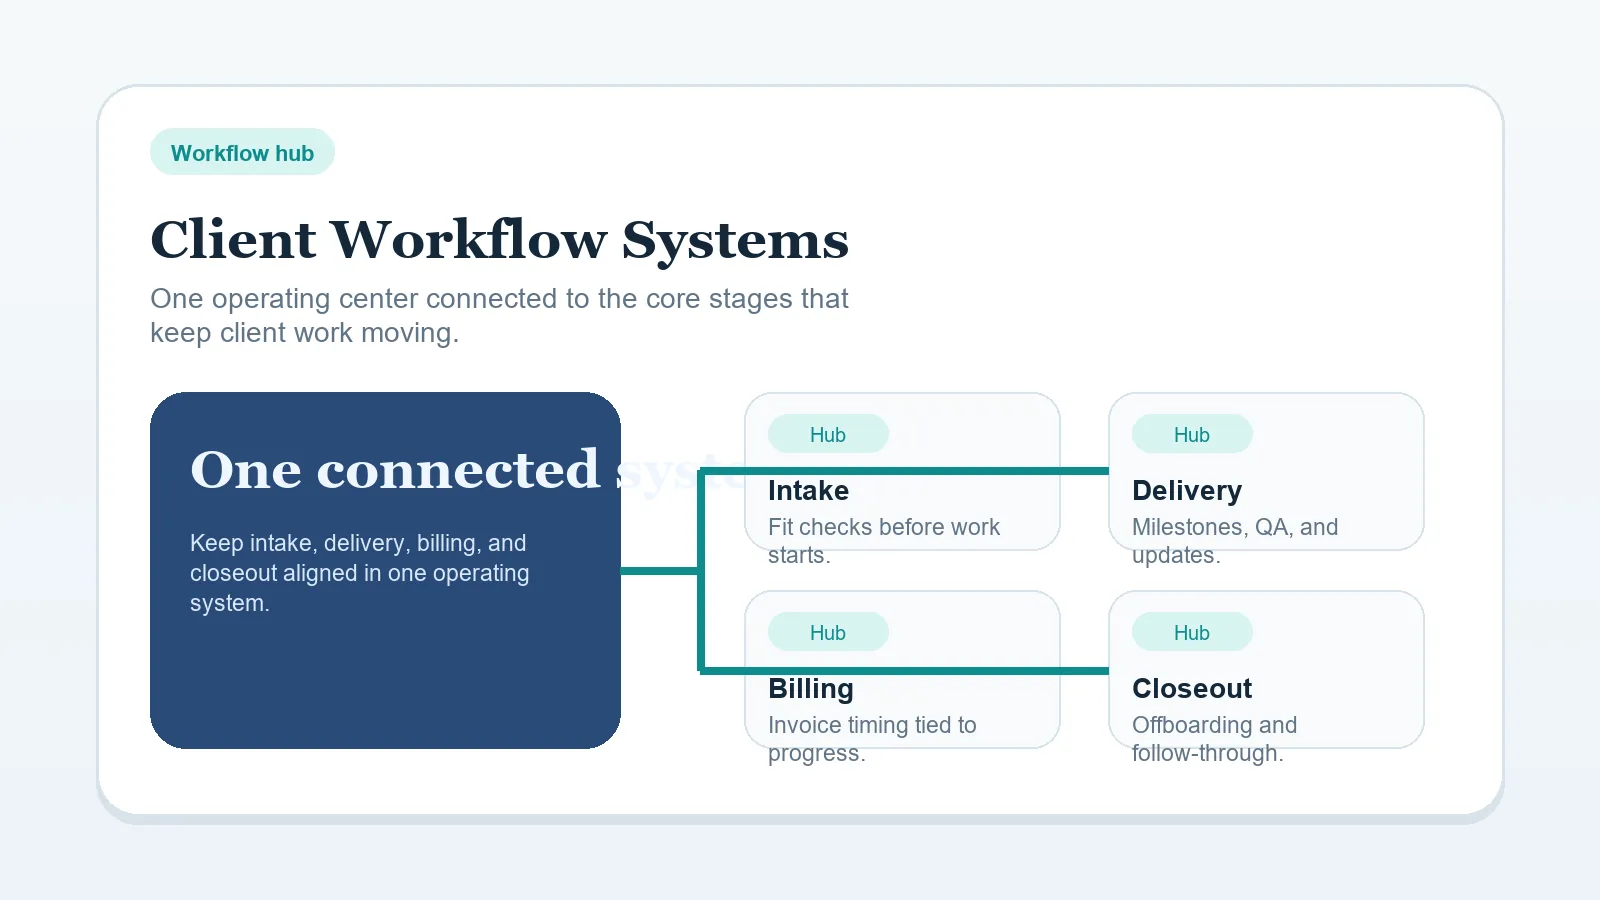
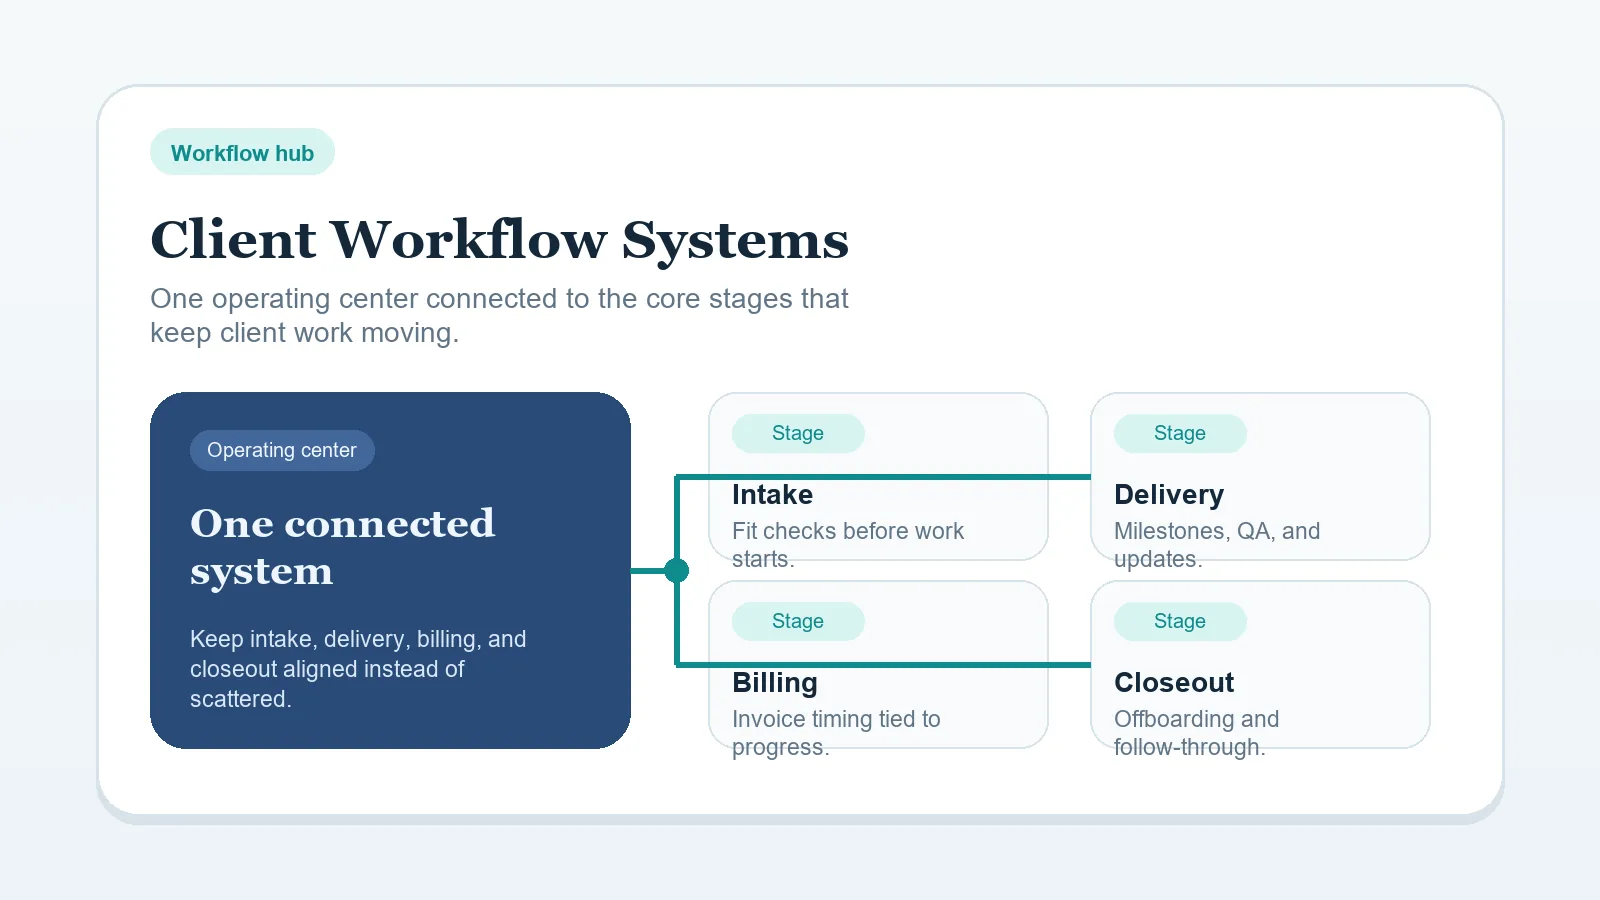
Improve four priority homepage feature images

Changed region(s): [[0.0938, 0.4356, 0.875, 0.8711]]

diff --git a/tools/feature-images/feature_images/templates/hub_overview.py b/tools/feature-images/feature_images/templates/hub_overview.py
@@ -8,30 +8,31 @@ def render_hub_overview(spec, context):
     helpers["shadowed_box"](draw, (96, 84, 1504, 816), palette["frame"], palette["stroke"], palette["shadow"], radius=42)
     helpers["pill"](draw, (150, 128, 334, 174), palette["accent_soft"], spec["eyebrow"], fonts["pill"], palette["accent"])
     draw.text((150, 208), spec["title"], font=fonts["title"], fill=palette["ink"])
-    helpers["draw_text_block"](draw, spec["subtitle"], fonts["subtitle"], palette["muted"], (150, 282, 720, 72), 8, report, "hub subtitle", max_lines=2)
+    helpers["draw_text_block"](draw, spec["subtitle"], fonts["subtitle"], palette["muted"], (150, 282, 760, 72), 8, report, "hub subtitle", max_lines=2)
 
-    anchor_box = (150, 392, 620, 748)
+    anchor_box = (150, 392, 630, 748)
     helpers["rounded_box"](draw, anchor_box, fill=palette["secondary"], outline=palette["secondary"], width=2, radius=36)
-    draw.text((190, 438), spec["anchor"]["title"], font=fonts["title"], fill="#eef6ff")
-    helpers["draw_text_block"](draw, spec["anchor"]["body"], fonts["card_body"], "#d8e6f7", (190, 530, 360, 108), 8, report, "hub anchor body", max_lines=4)
+    helpers["pill"](draw, (190, 430, 374, 470), "#43679b", "Operating center", fonts["small"], "#eef6ff")
+    helpers["draw_text_block"](draw, spec["anchor"]["title"], fonts["panel_title"], "#eef6ff", (190, 500, 330, 110), 10, report, "hub anchor title", max_lines=2)
+    helpers["draw_text_block"](draw, spec["anchor"]["body"], fonts["card_body"], "#d8e6f7", (190, 626, 360, 82), 8, report, "hub anchor body", max_lines=3)
 
     modules = spec["modules"]
     module_boxes = [
-        (744, 392, 1060, 550),
-        (1108, 392, 1424, 550),
-        (744, 590, 1060, 748),
-        (1108, 590, 1424, 748),
+        (708, 392, 1048, 560),
+        (1090, 392, 1430, 560),
+        (708, 580, 1048, 748),
+        (1090, 580, 1430, 748),
     ]
     for box, module in zip(module_boxes, modules):
         helpers["rounded_box"](draw, box, fill="#f8fbfd", outline=palette["stroke"], width=2, radius=28)
-        helpers["pill"](draw, (box[0] + 24, box[1] + 22, box[0] + 144, box[1] + 60), palette["accent_soft"], module["kicker"], fonts["small"], palette["accent"])
-        draw.text((box[0] + 24, box[1] + 82), module["title"], font=fonts["card_title"], fill=palette["ink"])
-        helpers["draw_text_block"](draw, module["detail"], fonts["card_body"], palette["muted"], (box[0] + 24, box[1] + 122, 248, 64), 6, report, f"hub module {module['title']}", max_lines=2)
+        helpers["pill"](draw, (box[0] + 24, box[1] + 22, box[0] + 156, box[1] + 60), palette["accent_soft"], module["kicker"], fonts["small"], palette["accent"])
+        draw.text((box[0] + 24, box[1] + 86), module["title"], font=fonts["card_title"], fill=palette["ink"])
+        helpers["draw_text_block"](draw, module["detail"], fonts["card_body"], palette["muted"], (box[0] + 24, box[1] + 126, 280, 64), 6, report, f"hub module {module['title']}", max_lines=2)
 
-    connector_x1 = 620
-    connector_x2 = 700
-    draw.line((connector_x1, 570, connector_x2, 570), fill=palette["accent"], width=8)
-    draw.line((connector_x2, 470, connector_x2, 670), fill=palette["accent"], width=8)
-    for y in (470, 670):
-        draw.line((connector_x2, y, 744, y), fill=palette["accent"], width=8)
-        draw.line((connector_x2, y, 1108, y), fill=palette["accent"], width=8)
+    connector_x1 = 630
+    connector_x2 = 676
+    draw.line((connector_x1, 570, connector_x2, 570), fill=palette["accent"], width=6)
+    draw.line((connector_x2, 476, connector_x2, 664), fill=palette["accent"], width=6)
+    draw.ellipse((connector_x2 - 12, 558, connector_x2 + 12, 582), fill=palette["accent"])
+    for y, x in ((476, 708), (476, 1090), (664, 708), (664, 1090)):
+        draw.line((connector_x2, y, x, y), fill=palette["accent"], width=6)

diff --git a/tools/feature-images/feature_images/templates/workflow_map.py b/tools/feature-images/feature_images/templates/workflow_map.py
@@ -13,46 +13,52 @@ def render_workflow_map(spec, context):
         spec["subtitle"],
         fonts["subtitle"],
         palette["muted"],
-        (150, 282, 700, 72),
+        (150, 282, 760, 72),
         8,
         report,
         "workflow subtitle",
         max_lines=2,
     )
 
-    panel = (150, 394, 1450, 590)
+    panel = (150, 384, 1450, 620)
     helpers["rounded_box"](draw, panel, fill="#f8fbfd", outline=palette["stroke"], width=3, radius=34)
     items = spec["items"]
-    card_width = 244
-    card_height = 168
-    start_x = 186
-    top_y = 452
-    gap = 70
+    card_width = 262
+    card_height = 176
+    gap = 34
+    start_x = 171
+    top_y = 430
+    connector_y = top_y + (card_height // 2)
+    last_card_x = start_x + ((len(items) - 1) * (card_width + gap))
+    draw.line(
+        (start_x + (card_width // 2), connector_y, last_card_x + (card_width // 2), connector_y),
+        fill=palette["accent_soft"],
+        width=14,
+    )
     for index, item in enumerate(items):
         x = start_x + index * (card_width + gap)
         box = (x, top_y, x + card_width, top_y + card_height)
         fill = [palette["accent_soft"], palette["secondary_soft"], palette["warm_soft"], palette["good_soft"]][index % 4]
         helpers["rounded_box"](draw, box, fill=fill, outline=palette["stroke"], width=2, radius=28)
-        helpers["pill"](draw, (x + 24, top_y + 24, x + 122, top_y + 62), palette["frame"], item["kicker"], fonts["small"], palette["muted"])
-        draw.text((x + 24, top_y + 84), item["label"], font=fonts["card_title"], fill=palette["ink"])
+        helpers["pill"](draw, (x + 24, top_y + 24, x + 138, top_y + 64), palette["frame"], item["kicker"], fonts["small"], palette["muted"])
+        draw.text((x + 24, top_y + 82), item["label"], font=fonts["card_title"], fill=palette["ink"])
         helpers["draw_text_block"](
             draw,
             item["detail"],
             fonts["card_body"],
             palette["muted"],
-            (x + 24, top_y + 124, card_width - 48, 64),
+            (x + 24, top_y + 122, card_width - 48, 72),
             6,
             report,
             f"workflow card {item['label']}",
             max_lines=2,
         )
         if index < len(items) - 1:
-            connector_y = top_y + (card_height // 2)
             draw.line((x + card_width, connector_y, x + card_width + gap, connector_y), fill=palette["accent"], width=8)
-            draw.ellipse((x + card_width + gap - 12, connector_y - 12, x + card_width + gap + 12, connector_y + 12), fill=palette["accent"])
+            draw.ellipse((x + card_width + gap - 11, connector_y - 11, x + card_width + gap + 11, connector_y + 11), fill=palette["accent"])
 
-    note_box = (150, 640, 760, 760)
-    signal_box = (790, 640, 1450, 760)
+    note_box = (150, 654, 760, 760)
+    signal_box = (790, 654, 1450, 760)
     helpers["rounded_box"](draw, note_box, fill="#f3f8fb", outline=palette["stroke"], width=2, radius=28)
     helpers["rounded_box"](draw, signal_box, fill="#f7fbf8", outline=palette["stroke"], width=2, radius=28)
     draw.text((182, 674), spec["supporting_note"]["title"], font=fonts["card_title"], fill=palette["ink"])

diff --git a/tools/feature-images/feature_images/templates/stack_blueprint.py b/tools/feature-images/feature_images/templates/stack_blueprint.py
@@ -10,26 +10,26 @@ def render_stack_blueprint(spec, context):
     draw.text((150, 208), spec["title"], font=fonts["title"], fill=palette["ink"])
     helpers["draw_text_block"](draw, spec["subtitle"], fonts["subtitle"], palette["muted"], (150, 282, 760, 72), 8, report, "blueprint subtitle", max_lines=2)
 
-    main_box = (150, 386, 844, 748)
-    side_box = (892, 386, 1450, 748)
+    main_box = (150, 386, 834, 768)
+    side_box = (882, 386, 1450, 768)
     helpers["rounded_box"](draw, main_box, fill="#f7fbff", outline=palette["stroke"], width=2, radius=34)
     helpers["rounded_box"](draw, side_box, fill="#fdfcf8", outline=palette["stroke"], width=2, radius=34)
 
     stack_boxes = [
-        (204, 620, 790, 704, palette["accent"]),
-        (238, 528, 756, 606, palette["secondary"]),
-        (278, 436, 716, 512, palette["warm"]),
+        (198, 630, 786, 724, palette["accent"]),
+        (232, 524, 752, 616, palette["secondary"]),
+        (272, 418, 712, 510, palette["warm"]),
     ]
     for idx, (x1, y1, x2, y2, fill) in enumerate(stack_boxes):
         helpers["rounded_box"](draw, (x1, y1, x2, y2), fill=fill, outline=fill, width=2, radius=26)
         layer = spec["stack_layers"][idx]
-        draw.text((x1 + 28, y1 + 20), layer["title"], font=fonts["card_title"], fill="#f7fbfd")
-        helpers["draw_text_block"](draw, layer["detail"], fonts["small"], "#e6eef7", (x1 + 28, y1 + 54, (x2 - x1) - 56, 48), 4, report, f"stack layer {layer['title']}", max_lines=2)
+        draw.text((x1 + 28, y1 + 18), layer["title"], font=fonts["card_title"], fill="#f7fbfd")
+        helpers["draw_text_block"](draw, layer["detail"], fonts["small"], "#e6eef7", (x1 + 28, y1 + 52, (x2 - x1) - 56, 48), 4, report, f"stack layer {layer['title']}", max_lines=2)
 
-    draw.text((932, 432), spec["side_panel"]["title"], font=fonts["card_title"], fill=palette["ink"])
+    draw.text((922, 432), spec["side_panel"]["title"], font=fonts["panel_title"], fill=palette["ink"])
     for index, item in enumerate(spec["side_panel"]["items"]):
-        y = 500 + (index * 86)
+        y = 502 + (index * 84)
         fill = [palette["accent_soft"], palette["secondary_soft"], palette["warm_soft"]][index % 3]
-        helpers["rounded_box"](draw, (932, y, 1408, y + 66), fill=fill, outline=palette["stroke"], width=2, radius=24)
-        draw.text((958, y + 18), item["label"], font=fonts["pill"], fill=palette["ink"])
-        draw.text((1230, y + 18), item["note"], font=fonts["small"], fill=palette["muted"])
+        helpers["rounded_box"](draw, (922, y, 1410, y + 74), fill=fill, outline=palette["stroke"], width=2, radius=24)
+        draw.text((950, y + 14), item["label"], font=fonts["pill"], fill=palette["ink"])
+        helpers["draw_text_block"](draw, item["note"], fonts["small"], palette["muted"], (950, y + 42, 420, 24), 4, report, f"stack trigger {item['label']}", max_lines=1)

diff --git a/tools/feature-images/feature_images/templates/comparison_split.py b/tools/feature-images/feature_images/templates/comparison_split.py
@@ -10,8 +10,8 @@ def render_comparison_split(spec, context):
     draw.text((150, 208), spec["title"], font=fonts["title"], fill=palette["ink"])
     helpers["draw_text_block"](draw, spec["subtitle"], fonts["subtitle"], palette["muted"], (150, 282, 760, 72), 8, report, "comparison subtitle", max_lines=2)
 
-    left_box = (150, 392, 732, 748)
-    right_box = (868, 392, 1450, 748)
+    left_box = (150, 392, 722, 736)
+    right_box = (878, 392, 1450, 736)
     helpers["rounded_box"](draw, left_box, fill="#fbf6ee", outline=palette["stroke"], width=2, radius=34)
     helpers["rounded_box"](draw, right_box, fill="#f4f8fd", outline=palette["stroke"], width=2, radius=34)
 
@@ -20,14 +20,14 @@ def render_comparison_split(spec, context):
         (right_box, spec["right"], palette["secondary"], palette["secondary_soft"], palette["secondary"]),
     ):
         helpers["pill"](draw, (box[0] + 30, box[1] + 26, box[0] + 210, box[1] + 66), pill_fill, side["kicker"], fonts["small"], pill_text)
-        draw.text((box[0] + 30, box[1] + 96), side["title"], font=fonts["card_title"], fill=palette["ink"])
+        draw.text((box[0] + 30, box[1] + 94), side["title"], font=fonts["panel_title"], fill=palette["ink"])
         for index, item in enumerate(side["items"]):
-            y = box[1] + 156 + (index * 80)
-            helpers["rounded_box"](draw, (box[0] + 30, y, box[2] - 30, y + 58), fill="#ffffff", outline=palette["stroke"], width=2, radius=22)
-            draw.text((box[0] + 54, y + 15), item["label"], font=fonts["pill"], fill=palette["ink"])
-            draw.text((box[2] - 210, y + 16), item["note"], font=fonts["small"], fill=palette["muted"])
+            y = box[1] + 154 + (index * 72)
+            helpers["rounded_box"](draw, (box[0] + 30, y, box[2] - 30, y + 54), fill="#ffffff", outline=palette["stroke"], width=2, radius=22)
+            draw.text((box[0] + 54, y + 16), item["label"], font=fonts["pill"], fill=palette["ink"])
+            helpers["pill"](draw, (box[2] - 182, y + 9, box[2] - 32, y + 45), pill_fill, item["note"], fonts["small"], pill_text)
 
-    decision_box = (454, 674, 1146, 758)
+    decision_box = (344, 754, 1256, 800)
     helpers["rounded_box"](draw, decision_box, fill=palette["frame"], outline=palette["stroke"], width=2, radius=28)
-    draw.text((486, 700), spec["decision"]["title"], font=fonts["pill"], fill=palette["ink"])
-    helpers["draw_text_block"](draw, spec["decision"]["body"], fonts["small"], palette["muted"], (700, 692, 404, 44), 4, report, "comparison decision", max_lines=2)
+    draw.text((382, 768), spec["decision"]["title"], font=fonts["pill"], fill=palette["ink"])
+    helpers["draw_text_block"](draw, spec["decision"]["body"], fonts["small"], palette["muted"], (580, 760, 620, 24), 4, report, "comparison decision", max_lines=1)

diff --git a/tools/feature-images/feature_images/fonts.py b/tools/feature-images/feature_images/fonts.py
@@ -18,6 +18,7 @@ def get_font_set() -> dict[str, ImageFont.FreeTypeFont | ImageFont.ImageFont]:
     return {
         "eyebrow": _load_font(["arialbd.ttf", "segoeuib.ttf"], 24),
         "title": _load_font(["georgiab.ttf", "arialbd.ttf"], 54),
+        "panel_title": _load_font(["georgiab.ttf", "arialbd.ttf"], 40),
         "subtitle": _load_font(["arial.ttf", "segoeui.ttf"], 28),
         "card_title": _load_font(["arialbd.ttf", "segoeuib.ttf"], 28),
         "card_body": _load_font(["arial.ttf", "segoeui.ttf"], 23),

diff --git a/TRACKER.md b/TRACKER.md
@@ -751,3 +751,50 @@ After each future pass, add a short section with:
   - commit `bd18a1e` pushed successfully with `git push origin main`
 - Recommended next step:
   - extend the new `tools/feature-images/feature_images/data/` config set gradually, activate additional images through `data/feature_image_raster_preferences.json` only after visual review, and keep custom generators rare
+
+## Four priority homepage feature image polish pass - 2026-04-16
+
+- What was changed:
+  - tightened the shared code-generated templates used by the four homepage priority images instead of introducing one-off manual asset edits
+  - improved the workflow-map composition with cleaner connector framing, wider card spacing, and steadier note-box placement
+  - improved the hub-overview composition by wrapping the anchor title safely, softening the connector structure, and giving the stage cards more room
+  - improved the stack-blueprint composition by giving the stack tiers and trigger cards more breathing room and trimming the densest copy
+  - improved the comparison-split composition by preventing the decision strip from colliding with the lower comparison rows and turning the small side notes into clearer pills
+- Shared helpers/templates updated:
+  - `tools/feature-images/feature_images/fonts.py`
+  - `tools/feature-images/feature_images/templates/workflow_map.py`
+  - `tools/feature-images/feature_images/templates/hub_overview.py`
+  - `tools/feature-images/feature_images/templates/stack_blueprint.py`
+  - `tools/feature-images/feature_images/templates/comparison_split.py`
+- Per-image configs updated:
+  - `tools/feature-images/feature_images/data/hubs/client-workflow-systems.json`
+  - `tools/feature-images/feature_images/data/blueprints/solo-freelancer-lean-budget.json`
+  - `tools/feature-images/feature_images/data/comparisons/crm-vs-project-management.json`
+- Which of the 4 images were fixed:
+  - `freelance-client-workflow-system`
+  - `client-workflow-systems-hub` via `client-workflow-systems`
+  - `software-stack-blueprint` via `solo-freelancer-lean-budget`
+  - `crm-vs-project-management`
+- Custom exception images introduced:
+  - none; all four stayed on the shared reusable workflow
+- Files regenerated:
+  - `static/images/features/workflows/freelance-client-workflow-system.webp`
+  - `static/images/features/hubs/client-workflow-systems.webp`
+  - `static/images/features/blueprints/solo-freelancer-lean-budget.webp`
+  - `static/images/features/comparisons/crm-vs-project-management.webp`
+  - matching built copies under `public/images/features/...`
+- Verification completed:
+  - confirmed Python remained available at `C:\Users\vboxuser\AppData\Local\Programs\Python\Python312\python.exe`
+  - regenerated only the four priority images with `tools/feature-images/generate_one.py --id ...`
+  - visually reviewed all four generated `webp` outputs directly from the filesystem after regeneration and refined the weaker blueprint/comparison compositions again before closing the pass
+  - ran `tools/hugo/v0.128.0/hugo.exe --gc --minify --baseURL https://soloopsguide.com/` successfully
+  - confirmed the built homepage references the four regenerated raster assets:
+    - `/images/features/workflows/freelance-client-workflow-system.webp`
+    - `/images/features/hubs/client-workflow-systems.webp`
+    - `/images/features/blueprints/solo-freelancer-lean-budget.webp`
+    - `/images/features/comparisons/crm-vs-project-management.webp`
+  - confirmed the built homepage still includes the `Start Here` section and the surrounding homepage sections with no broken image references introduced
+- Commit message used:
+  - `Improve four priority homepage feature images`
+- Push result:
+  - pending until the immediate post-push tracker follow-up commit records the actual `git push origin main` result
